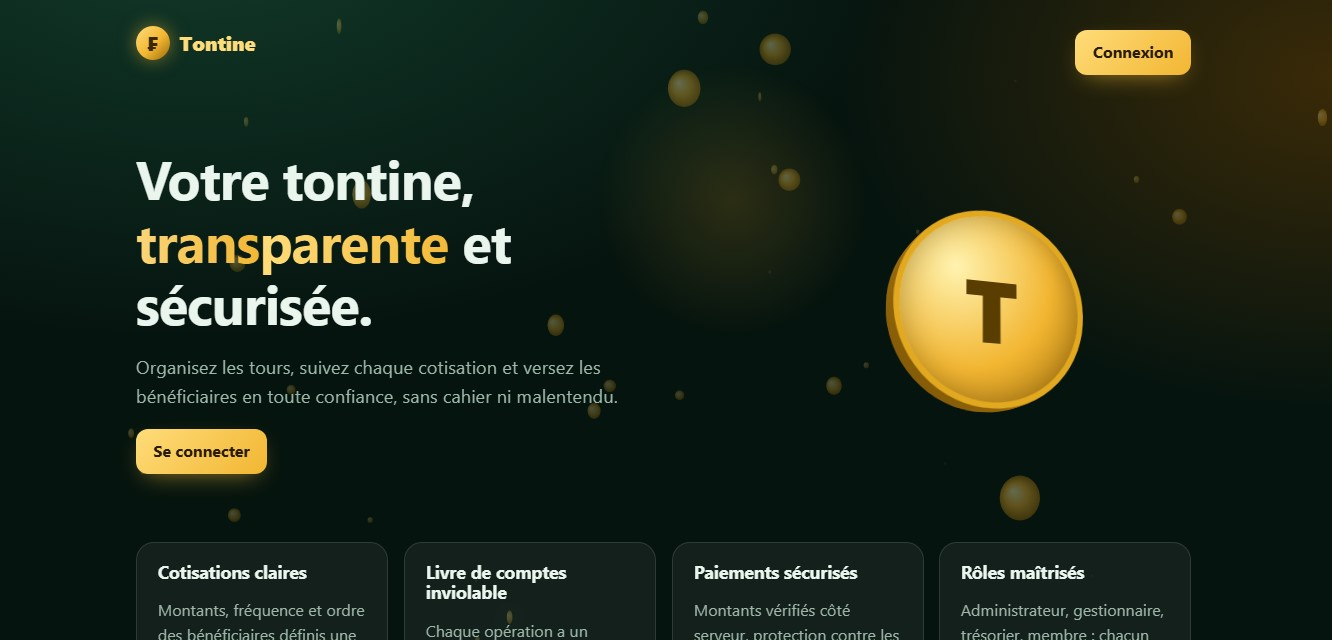
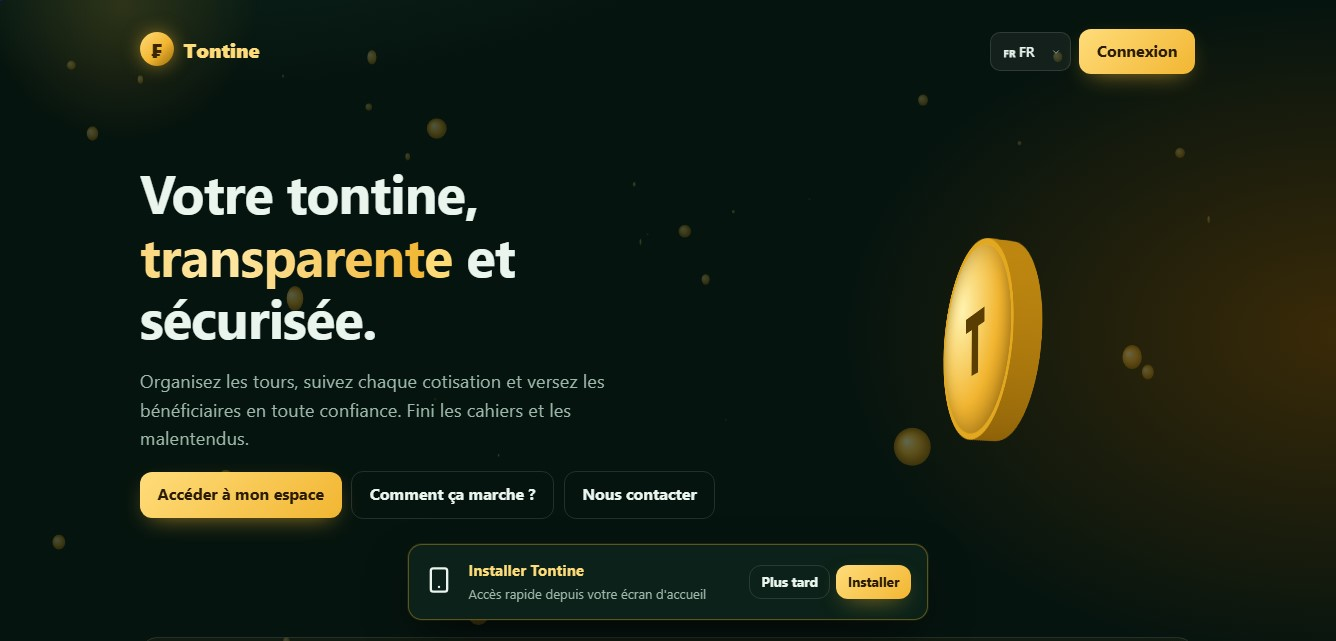
Ajout du lien et de l'image du projet Gestion tontines

diff --git a/script.js b/script.js
@@ -58,7 +58,7 @@ const projects = [
             { name: "Vite", slug: "vite" },
             { name: "Argon2", slug: "letsencrypt" }
         ],
-        link: "#"
+        link: "https://tontine-sooty.vercel.app"
     },
     // ============================================
     // 8 ANCIENS PROJETS
